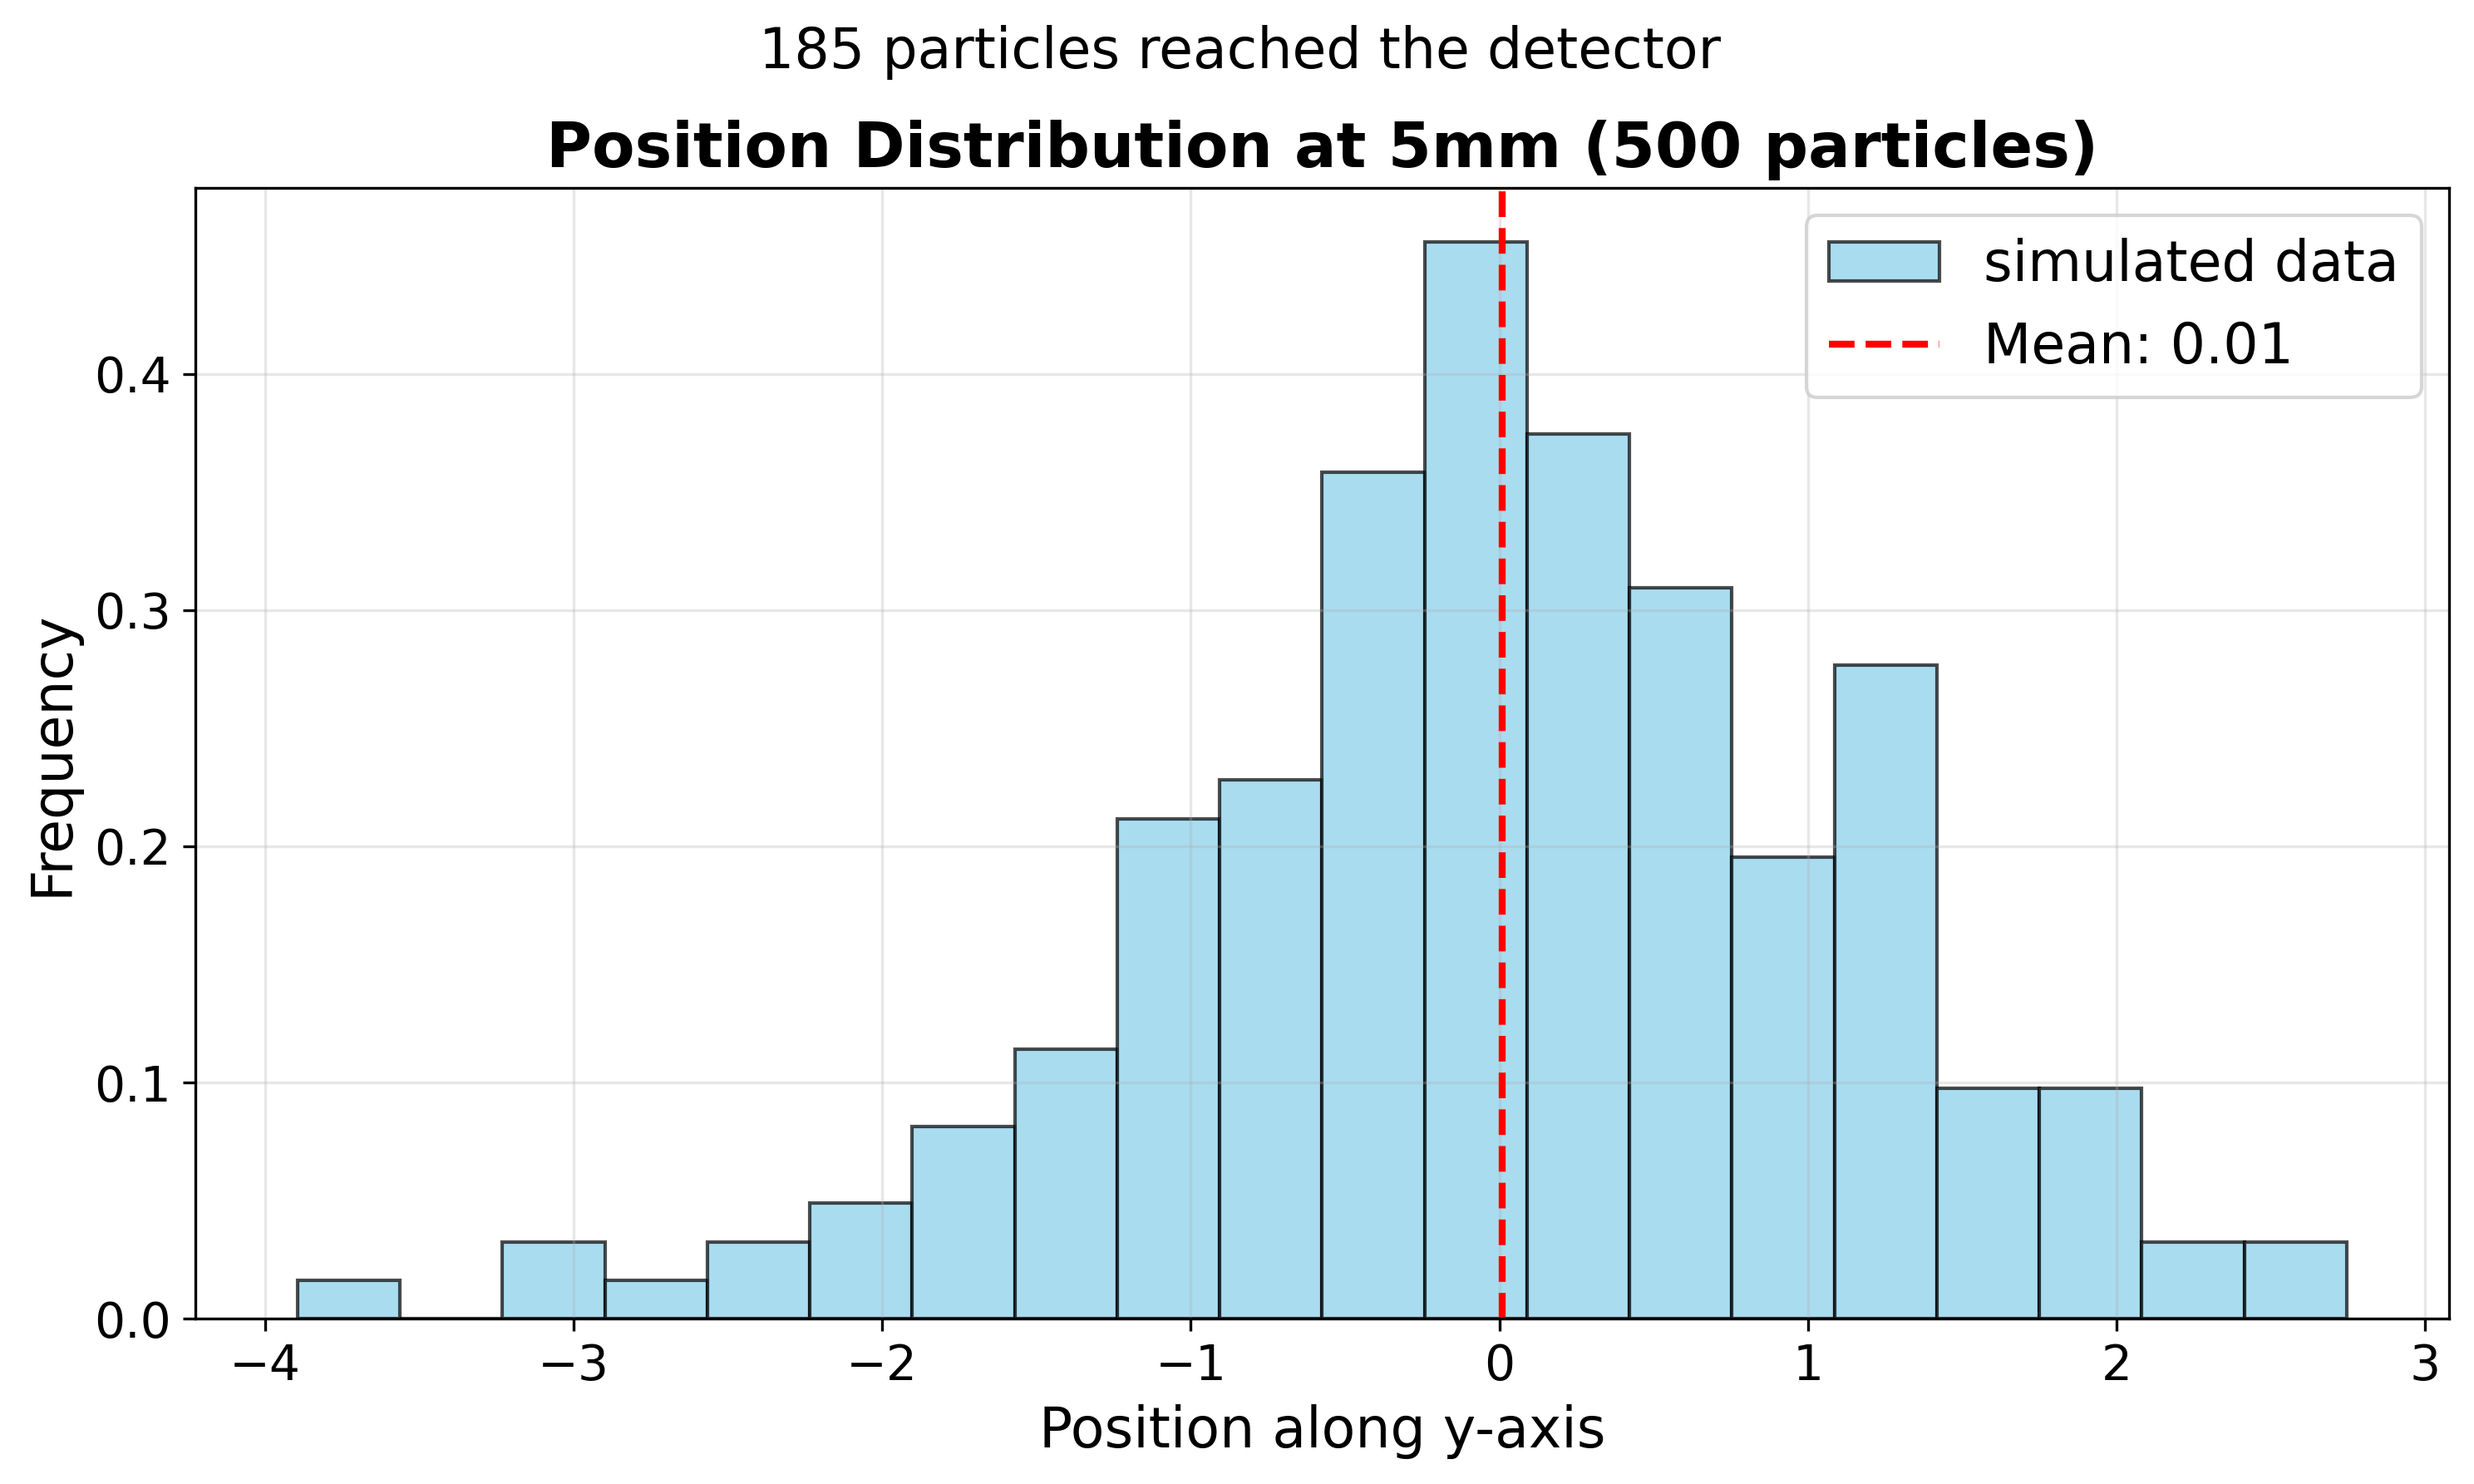
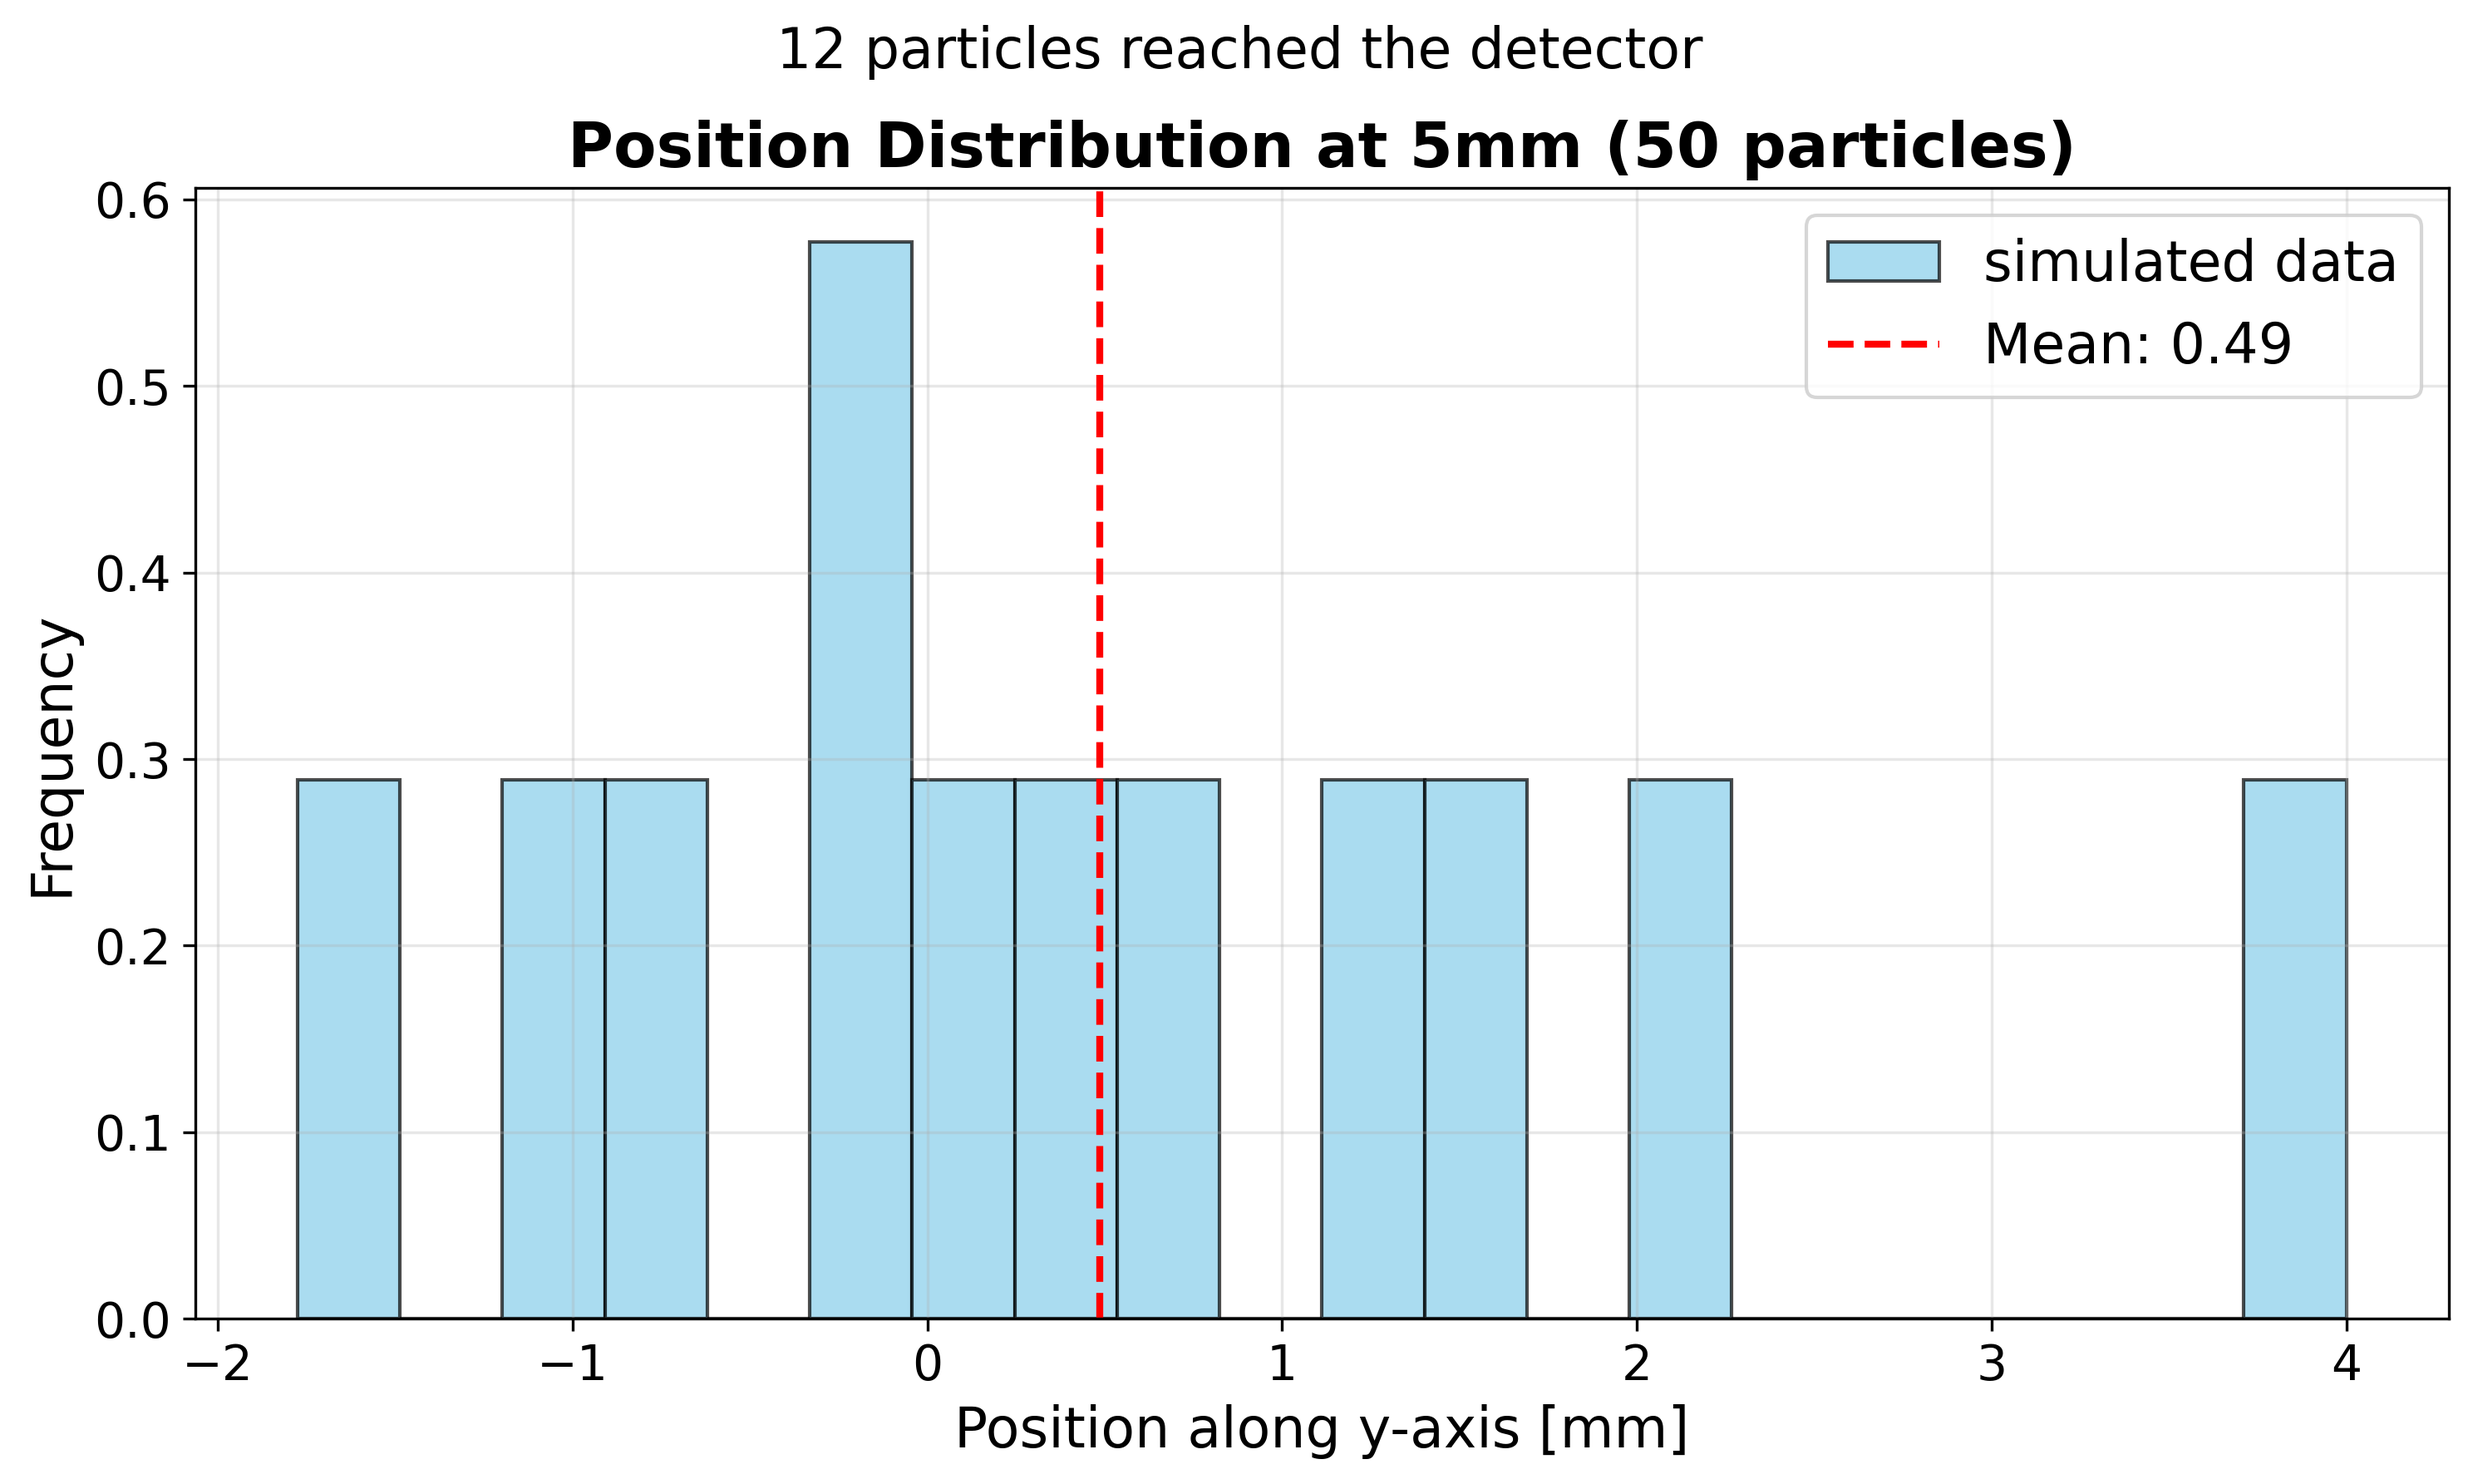
c

diff --git a/exercise3/ex3.py b/exercise3/ex3.py
@@ -4,7 +4,7 @@ import matplotlib.pyplot as plt
 X=np.arange(-5,100,1)
 Y=np.arange(-50,50,1)
 
-N=500
+N=50
 
 
 all_x_paths = []
@@ -135,7 +135,7 @@ plt.figure(figsize=(10, 6))
 plt.hist(distances_tot, bins=20, edgecolor='black', alpha=0.7, color='skyblue', density=True, label='simulated data')
 plt.axvline(np.mean(distances_tot), color='r', linestyle='--', linewidth=2, 
             label=f'Mean: {np.mean(distances_tot):.2f}')
-plt.xlabel('Path lenght', fontsize=16)
+plt.xlabel('Path lenght [mm]', fontsize=16)
 plt.ylabel('Frequency', fontsize=16)
 plt.title(f'Total Path Lenght Distribution ({N} particles)', fontsize=18, fontweight='bold')
 plt.legend(fontsize=16)
@@ -161,7 +161,7 @@ plt.plot(x_theory, np.exp(-x_theory), 'r-', linewidth=2, label='$f(x)=e^{-x}$')
 
 plt.axvline(np.mean(all_distances_flat), color='g', linestyle='--', linewidth=2, 
             label=f'Mean: {np.mean(all_distances_flat):.2f}')
-plt.xlabel('Path length', fontsize=16)
+plt.xlabel('Path length [mm]', fontsize=16)
 plt.ylabel('Frequency', fontsize=16)
 plt.title(f'Single-Step Path Length Distribution ({N} particles)', 
           fontsize=18, fontweight='bold')
@@ -242,8 +242,8 @@ ax1.axhline(Y.max(), color='r', linestyle='--', alpha=0.5, linewidth=2)
 ax1.axvline(X.min(), color='r', linestyle='--', alpha=0.5, linewidth=2)
 ax1.axvline(X.max(), color='r', linestyle='--', alpha=0.5, linewidth=2)
 
-ax1.set_xlabel('x', fontsize=16)
-ax1.set_ylabel('y', fontsize=16)
+ax1.set_xlabel('x [mm]', fontsize=16)
+ax1.set_ylabel('y [mm]', fontsize=16)
 ax1.set_title(f'Full View: {N} particle trajectories', fontsize=18, fontweight='bold')
 ax1.grid(True, alpha=0.3)
 ax1.legend(fontsize=16, loc='best')
@@ -260,8 +260,8 @@ for i in range(N):
 
 ax2.set_xlim(x_zoom_min, x_zoom_max)
 ax2.set_ylim(y_zoom_min, y_zoom_max)
-ax2.set_xlabel('x', fontsize=16)
-ax2.set_ylabel('y', fontsize=16)
+ax2.set_xlabel('x [mm]', fontsize=16)
+ax2.set_ylabel('y [mm]', fontsize=16)
 ax2.set_title(f'Zoomed View: {N} particle trajectories', fontsize=18, fontweight='bold')
 ax2.grid(True, alpha=0.3)
 ax2.tick_params(axis='both', which='major', labelsize=14)
@@ -286,7 +286,7 @@ if count5>0:
     plt.hist(y5, bins=20, edgecolor='black', alpha=0.7, color='skyblue', density=True, label='simulated data')
     plt.axvline(np.mean(y5), color='r', linestyle='--', linewidth=2, 
                 label=f'Mean: {np.mean(y5):.2f}')
-    plt.xlabel('Position along y-axis', fontsize=16)
+    plt.xlabel('Position along y-axis [mm]', fontsize=16)
     plt.ylabel('Frequency', fontsize=16)
     plt.title(f'Position Distribution at 5mm ({N} particles)', fontsize=18, fontweight='bold')
     plt.suptitle(f'{count5} particles reached the detector', fontsize=16)
@@ -303,7 +303,7 @@ if count20>0:
     plt.hist(y20, bins=20, edgecolor='black', alpha=0.7, color='skyblue', density=True, label='simulated data')
     plt.axvline(np.mean(y20), color='r', linestyle='--', linewidth=2, 
             label=f'Mean: {np.mean(y20):.2f}')
-    plt.xlabel('Position along y-axis', fontsize=16)
+    plt.xlabel('Position along y-axis [mm]', fontsize=16)
     plt.ylabel('Frequency', fontsize=16)
     plt.title(f'Position Distribution at 20mm ({N} particles)', fontsize=18, fontweight='bold')
     plt.suptitle(f'{count20} particles reached the detector', fontsize=16)
